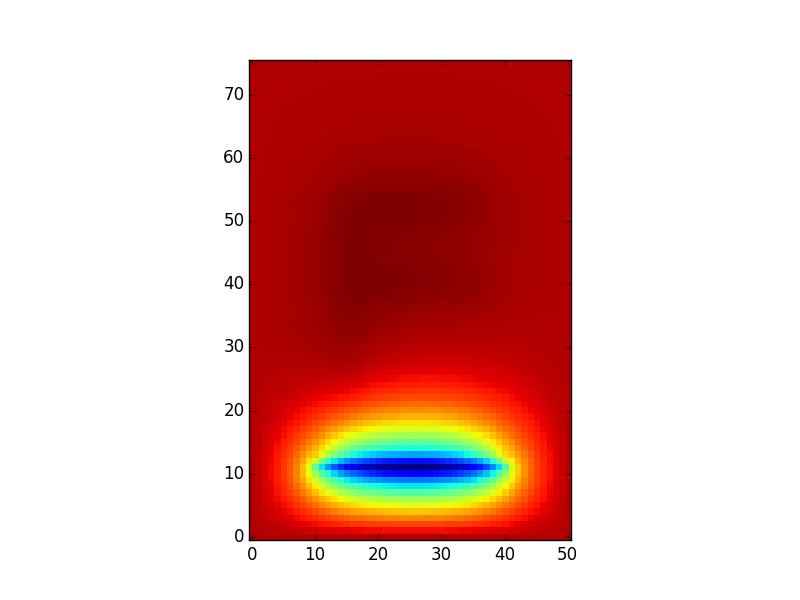
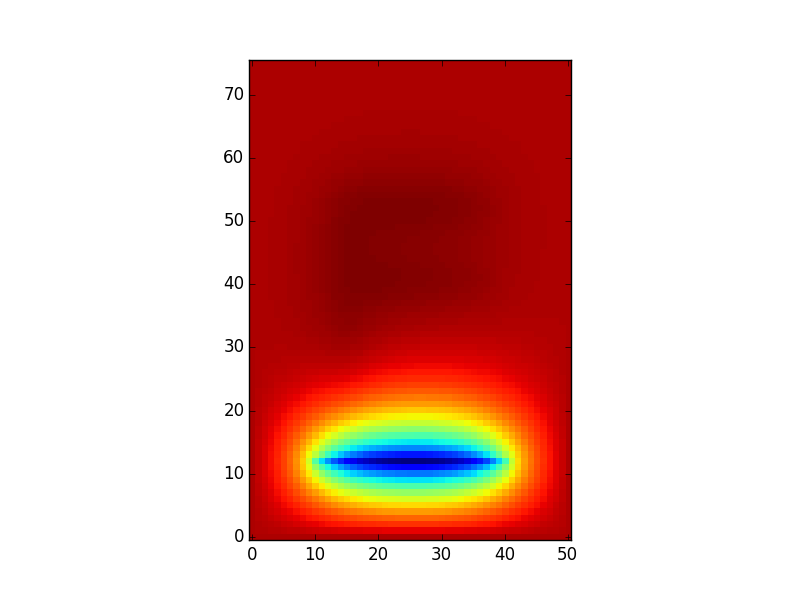
se arreglan limites de for en funcion una_iteracion

Changed region(s): [[0.3438, 0.6, 0.6875, 0.87]]

diff --git a/tarea5.py b/tarea5.py
@@ -34,20 +34,20 @@ def rho(i, j, h):
 #linea neumann y=-5.5 entre x=[-3,3]
 def una_iteracion(v, v_next, N_pasos_x, N_pasos_y, h=0.2, w=1.):
     for i in range(1, N_pasos_x-1):
-        #arriba
-        for j in range(1, 11):
+        #abajo
+        for j in range(1, 12):
             v_next[i, j] = ((1 - w) * v[i, j] +
                               w / 4 * (v[i+1, j] + v_next[i-1, j] +
                                        v[i, j+1] + v_next[i, j-1] +
                                        h**2 * rho(i, j, h)))
-        #abajo
+        #arriba
         for j in range(14, N_pasos_y-1):
             v_next[i, j] = ((1 - w) * v[i, j] +
                               w / 4 * (v[i+1, j] + v_next[i-1, j] +
                                        v[i, j+1] + v_next[i, j-1] +
                                        h**2 * rho(i, j, h)))
 
-    for j in range(11,14):
+    for j in range(11,15):
         #izq
         for i in range(1,10):
             v_next[i, j] = ((1 - w) * v[i, j] +
@@ -65,7 +65,7 @@ def una_iteracion(v, v_next, N_pasos_x, N_pasos_y, h=0.2, w=1.):
 
     #vecinos, cuando v_next o v???
     for i in range(10,41):
-        for j in range(11,12):#abajo
+        for j in range(12,13):#abajo
             v_next[i,j] =  ((1 - w) * v[i, j] +
                           w / 3 * (v[i+1, j] + v_next[i-1, j] +
                                    v[i, j-1] + h**2 * rho(i, j, h) + h*(-1.)))
@@ -73,10 +73,7 @@ def una_iteracion(v, v_next, N_pasos_x, N_pasos_y, h=0.2, w=1.):
             v_next[i,j] =  ((1 - w) * v[i, j] +
                           w / 3 * (v[i+1, j] + v_next[i-1, j] +
                                    v[i, j-1] + h**2 * rho(i, j, h) + h*(1.)))
-    #en la linea neumann
-    for j in range(12,13):
-        for i in range(10,41):
-            v_next[i,j] = v_next[i,j-1]+h*(1.)
+
 #Main
 #Setup
 
@@ -95,7 +92,7 @@ while counter < 100:
     v = v_next.copy()
     una_iteracion(v, v_next, N_pasos_x, N_pasos_y , h, w=1.)
     counter += 1
-    
+
 v_next_rotada=v_next.transpose()
 
 
